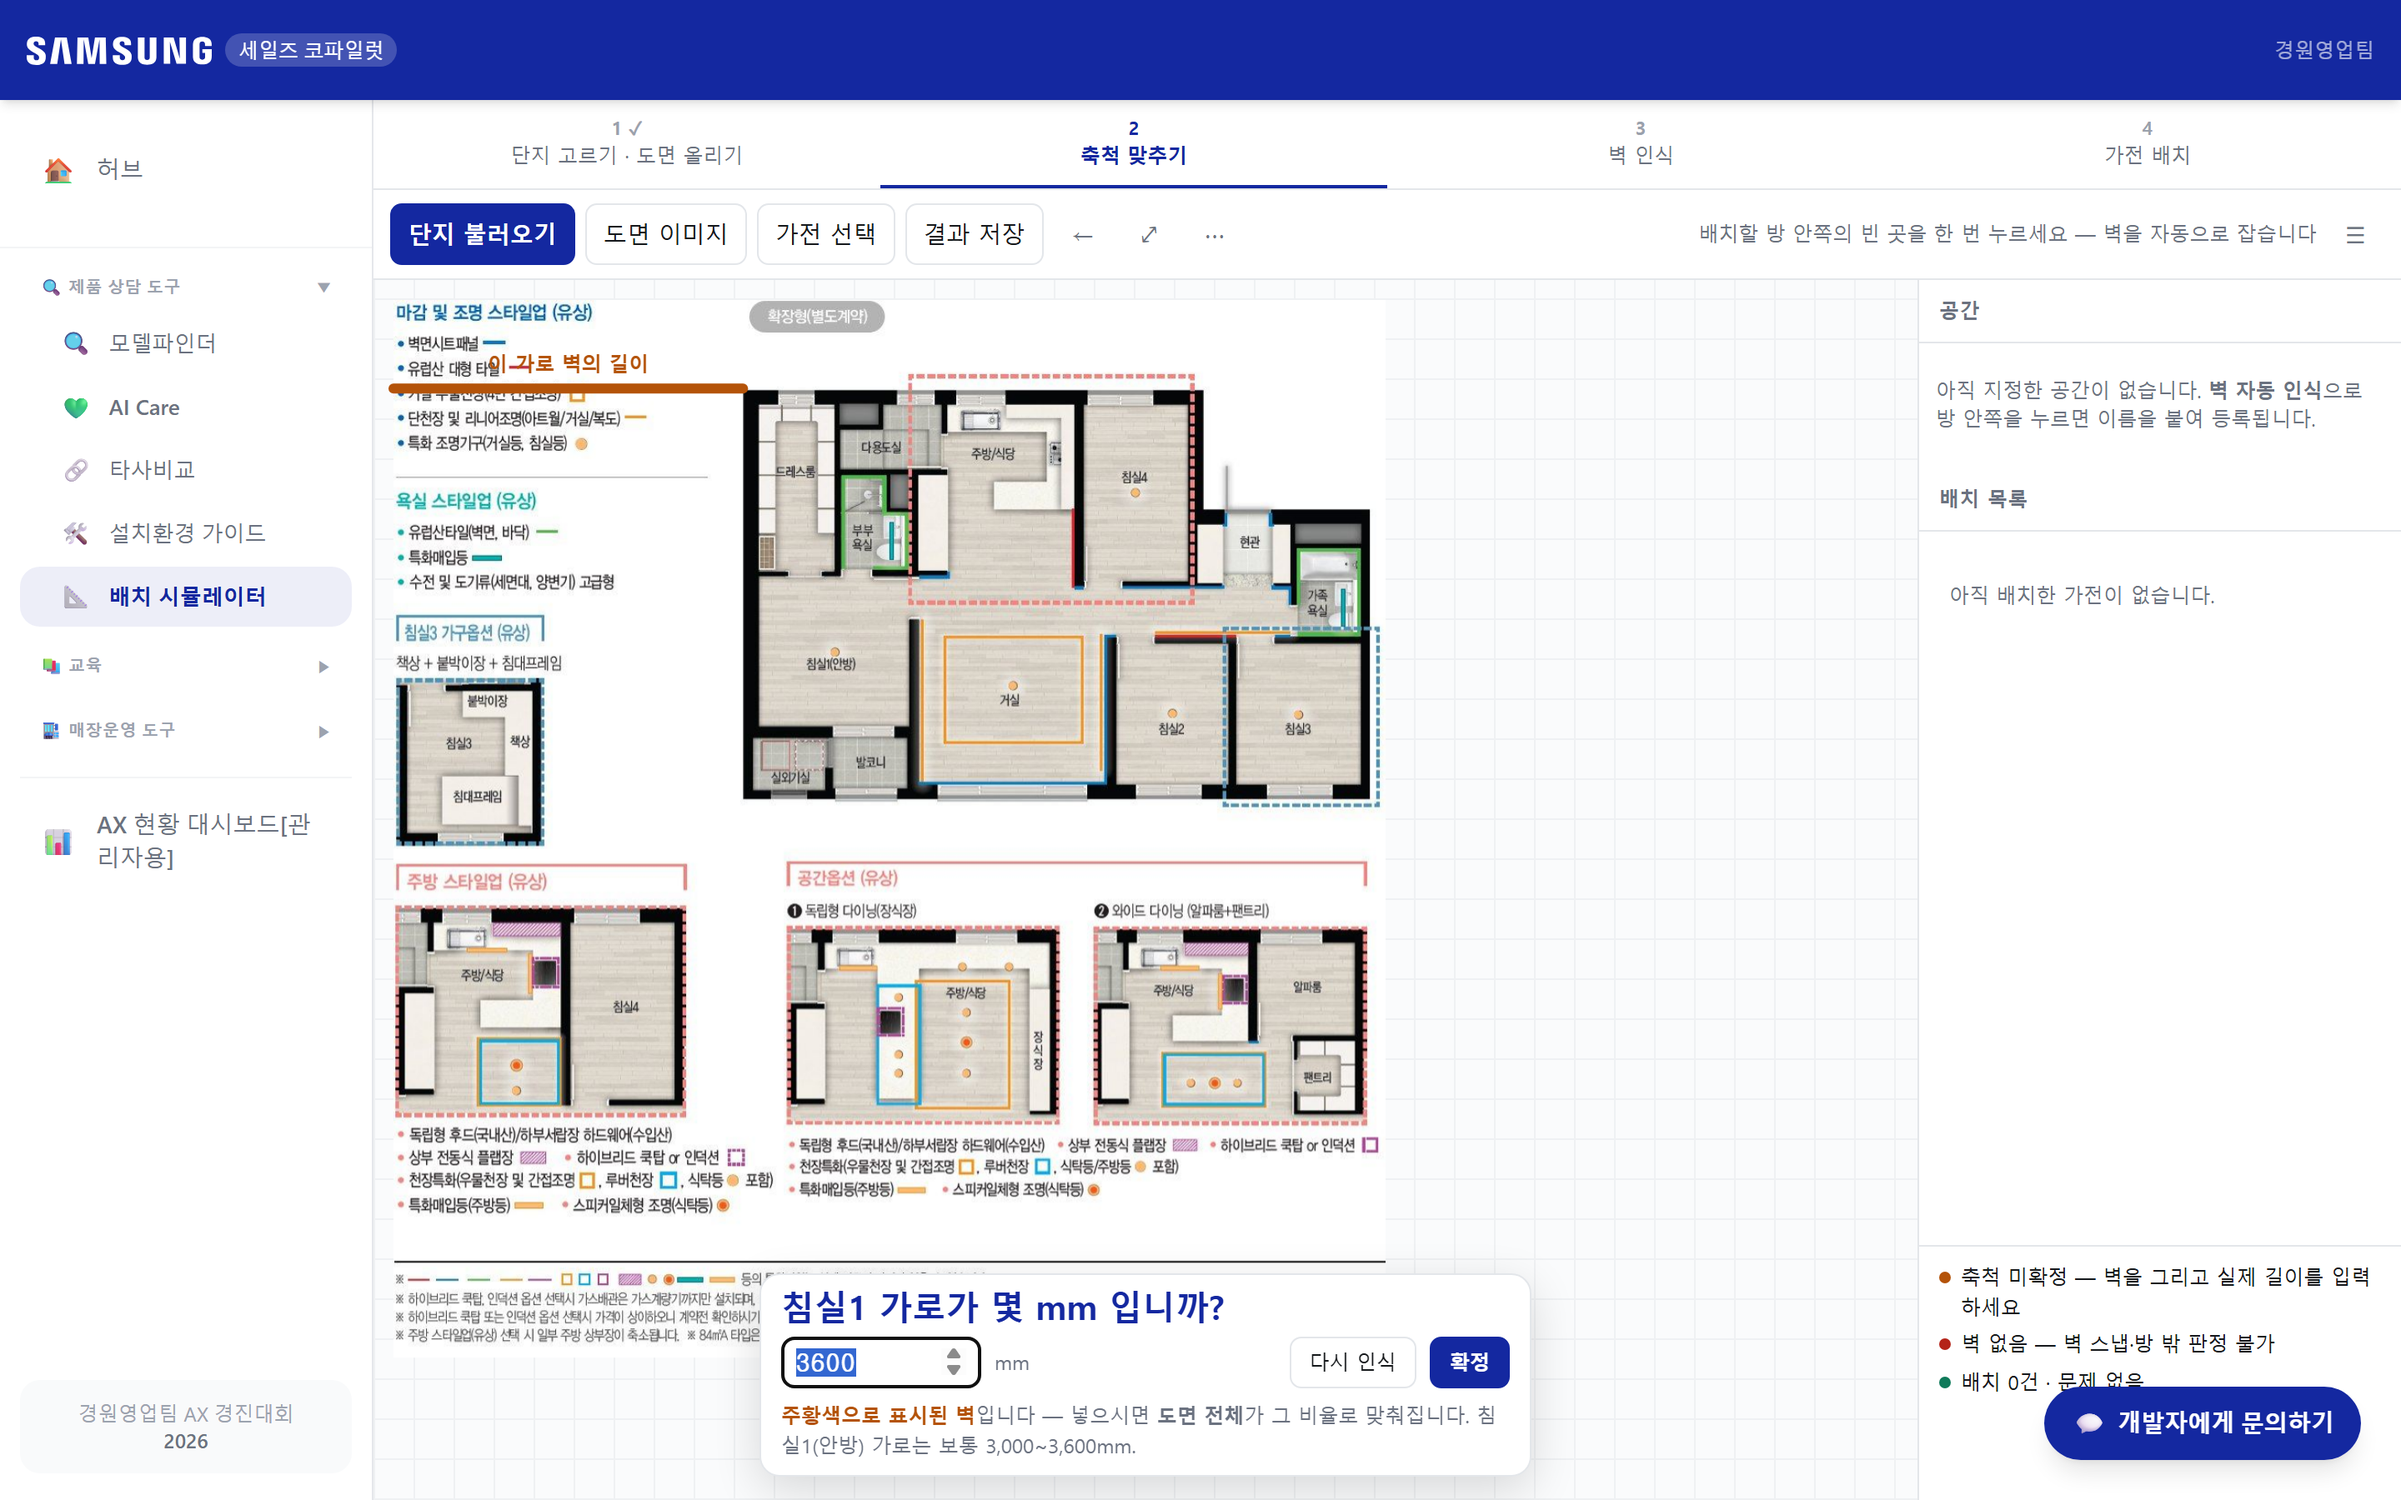
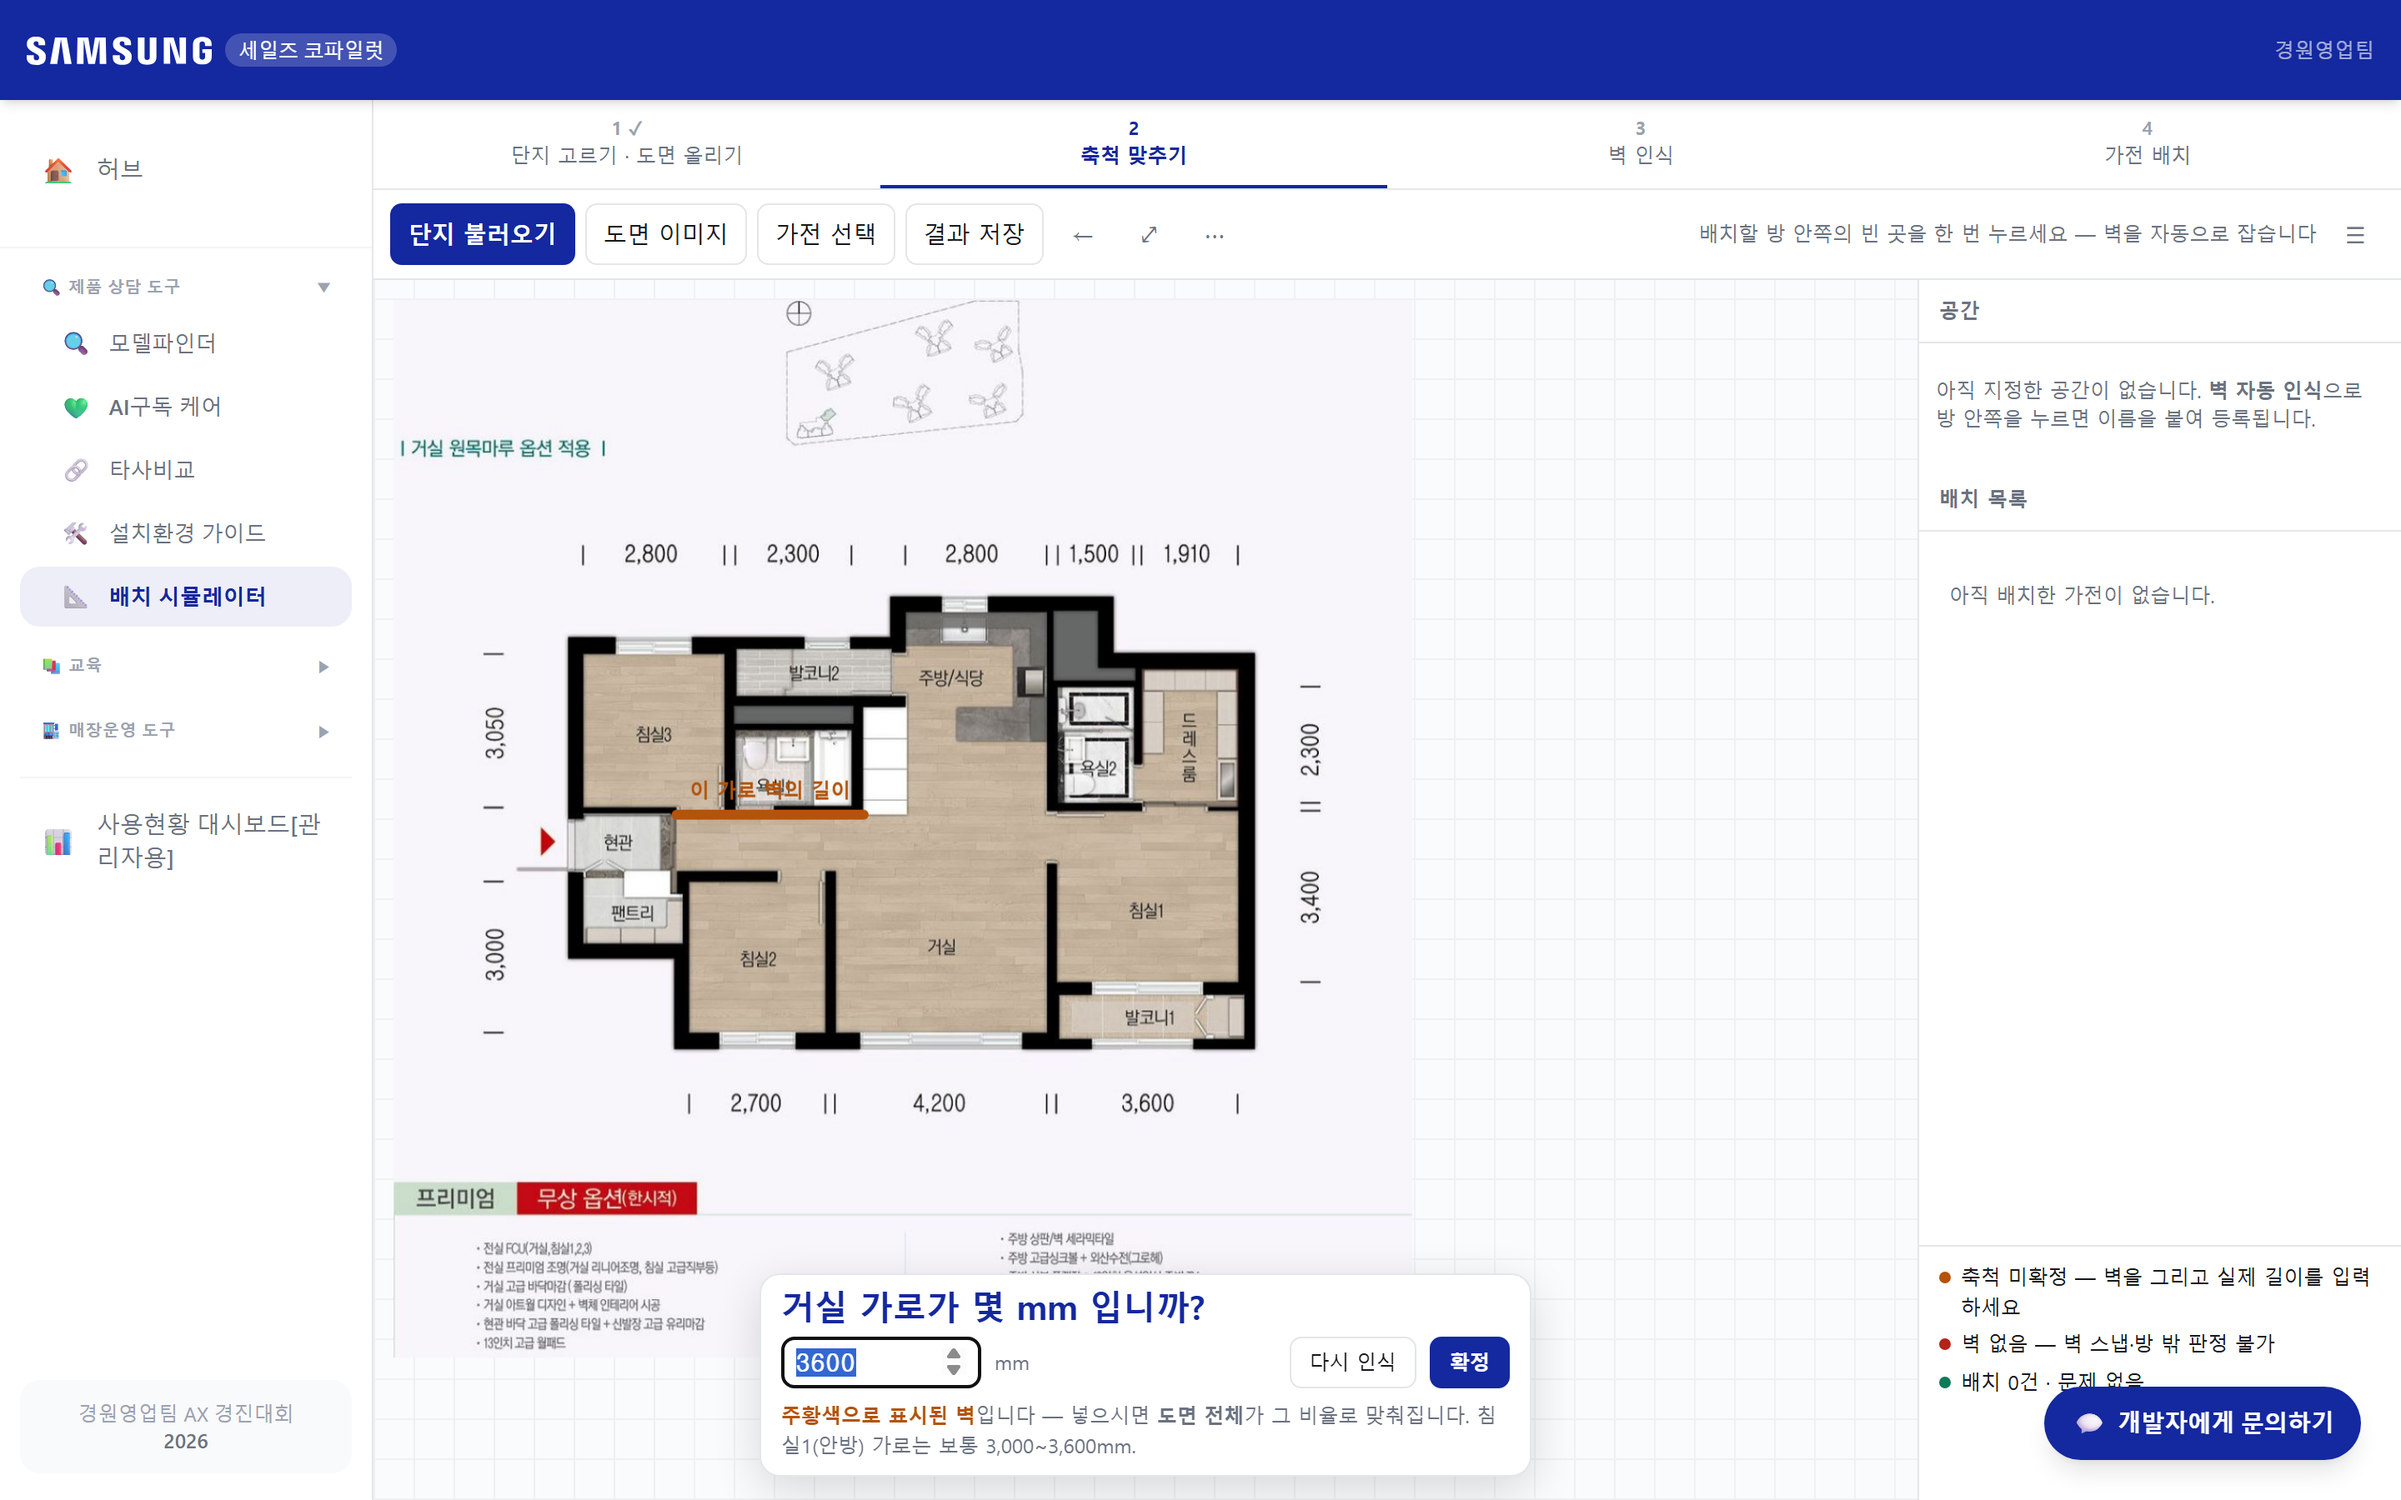
축척 질문의 예시 치수를 잡은 방에 맞춘다
"거실 가로가 몇 mm 입니까?" 밑에 "침실1(안방) 가로는 보통 3,000~3,600mm"
가 고정으로 붙어 있었다. 방 이름은 동적인데 예시만 안 바뀐 것이다.

상담사가 그 숫자를 그대로 넣으면 축척이 통째로 틀어진다 — 거실 가로에
3,300 을 넣으면 도면 전체가 그 비율로 어긋난다.

wallHint(name) 이 방에 맞는 범위를 돌려준다. 거실 3,600~5,200 ·
침실1 3,000~3,600 · 침실 2,700~3,300 · 주방 2,400~3,600.
모르는 방이면 예시를 아예 적지 않는다 — 없는 근거를 만들지 않는다.

Changed region(s): [[0.1562, 0.1867, 0.5938, 0.9022], [0.0312, 0.5289, 0.125, 0.56], [0.0625, 0.2489, 0.0938, 0.28]]

diff --git a/public/place-app.html b/public/place-app.html
@@ -3098,6 +3098,20 @@ function longestHRun(segs){
   return best;
 }
 
+/**
+ * 방 이름에 맞는 **가로 치수 예시**. 상담사가 감을 못 잡을 때 기준이 되는 값이라
+ * 방과 어긋나면 축척이 통째로 틀어진다 — 아는 방만 적고 나머지는 비운다.
+ * 값은 국내 아파트 전용 59~85㎡ 의 통상 범위다(확정 수치가 아니라 "보통 이 정도"의 안내).
+ */
+function wallHint(name){
+  const n = String(name || '');
+  if (/거실/.test(n))            return " 거실 가로는 보통 3,600~5,200mm.";
+  if (/안방|침실1/.test(n))      return " 침실1(안방) 가로는 보통 3,000~3,600mm.";
+  if (/침실/.test(n))            return " 침실 가로는 보통 2,700~3,300mm.";
+  if (/주방|주방·식당|식당/.test(n)) return " 주방 가로는 보통 2,400~3,600mm.";
+  return "";                     // 모르는 방이면 예시를 만들지 않는다
+}
+
 function askWallLength(segs, opts){
   /*
    * 기준 벽은 **가로 벽면 전체**다(사용자 지정).
@@ -3151,8 +3165,14 @@ function askWallLength(segs, opts){
     + "<span class='grow'></span>"
     + "<button id='wl-again'>" + (state.img ? "다시 인식" : "다시 그리기") + "</button>"
     + "<button class='primary' id='wl-ok'>확정</button></div>"
+    /*
+     * 예시 치수는 **지금 잡은 방에 맞춰** 적는다. 예전에는 "침실1(안방) 가로는 보통
+     * 3,000~3,600mm" 로 고정돼 있어, 거실을 잡았는데 "거실 가로가 몇 mm 입니까?" 밑에
+     * 침실 예시가 붙었다 — 상담사가 그 숫자를 그대로 넣으면 축척이 통째로 틀어진다.
+     * 방 이름을 모르면 예시를 아예 적지 않는다(없는 근거를 만들지 않는다).
+     */
     + "<div class='dl'><span class='prev'><b style='color:#B45309'>주황색으로 표시된 벽</b>입니다 — "
-    + "넣으시면 <b>도면 전체</b>가 그 비율로 맞춰집니다. 침실1(안방) 가로는 보통 3,000~3,600mm.</span></div>";
+    + "넣으시면 <b>도면 전체</b>가 그 비율로 맞춰집니다." + wallHint(rn) + "</span></div>";
   if (!bar.classList.contains('on')) pushBack();   // 휴대폰 뒤로가기가 앱이 아니라 이 막대를 닫도록
   bar.classList.add("on");
   const wl = $("#wl");
